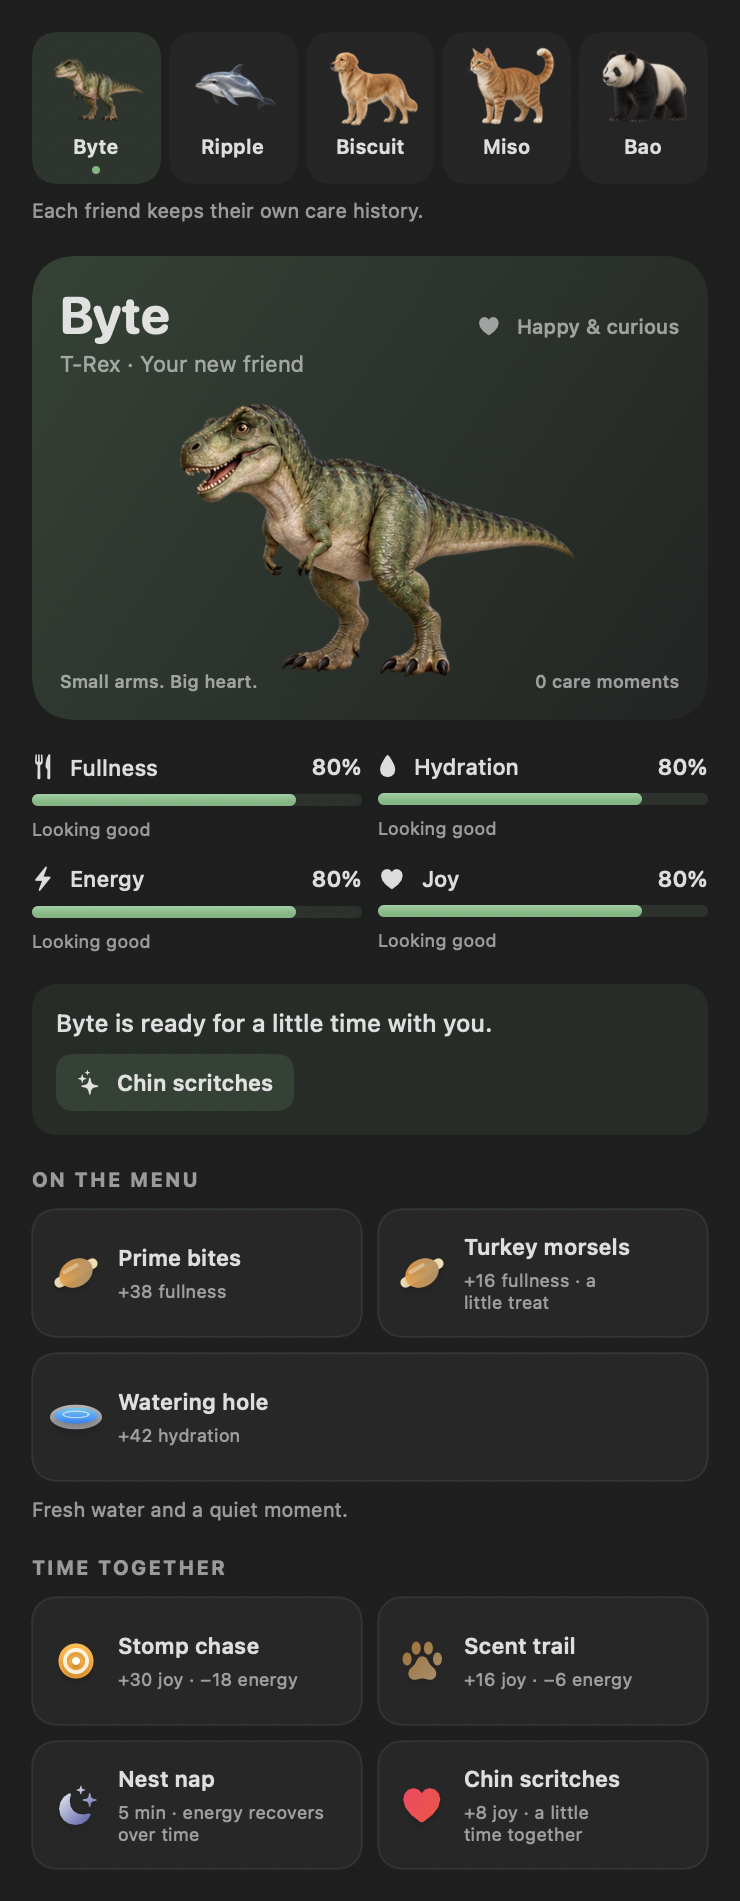
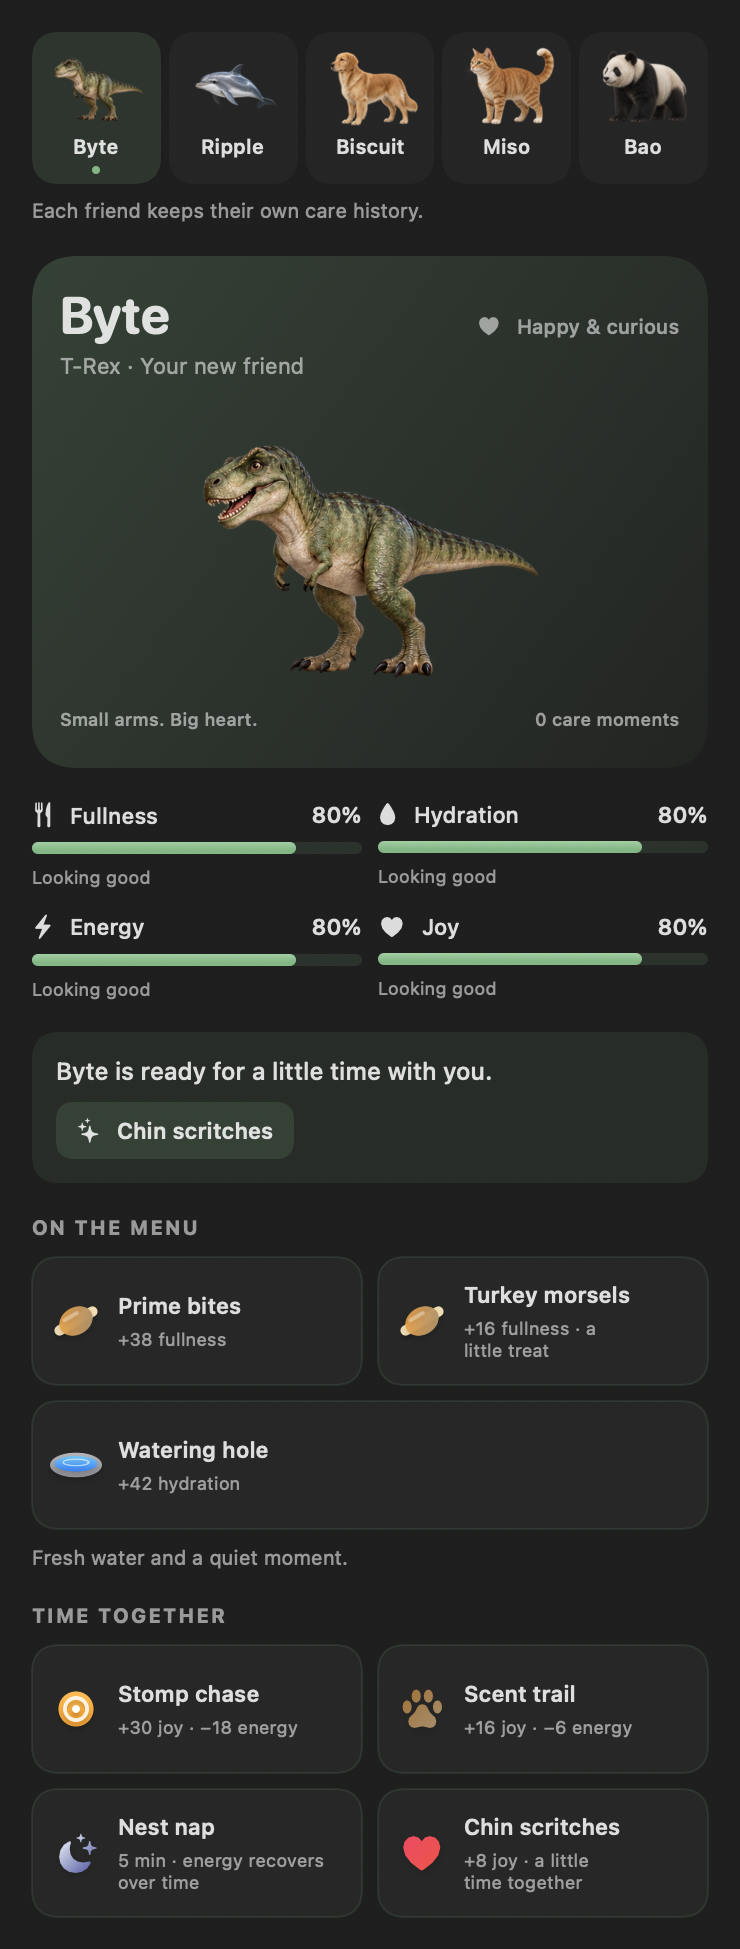
Refresh Nooklings screenshots and record native validation

diff --git a/README.md b/README.md
@@ -30,7 +30,7 @@ Click to chat. Hover to care. Drag to make yourself at home.
 
 **The pet works without an AI connection.** For replies, use an eligible ChatGPT plan through browser sign-in, or connect your own Anthropic API key. Credentials stay in macOS Keychain. Nooklings is built with SwiftUI and AppKit, with no third-party runtime dependencies.
 
-> **Source preview:** Nooklings is currently built from source. Bundles produced by this repository are unsigned. Automated macOS build, test, and bundle checks pass; real sign-in and UI behavior still need manual verification. See the [review and validation notes](docs/CODE_REVIEW.md#validation) for the current evidence.
+> **Source preview:** Nooklings is currently built from source. Bundles produced by this repository are unsigned. Automated macOS build, test, and bundle checks pass; real sign-in and UI behavior still need manual verification. See the [review and validation notes](docs/CODE_REVIEW.md#nooklings-update--october-18-2026) for the current evidence.
 
 <a id="features"></a>
 ## ✨ What you get
@@ -318,7 +318,7 @@ plutil -lint Nooklings.app/Contents/Info.plist
 
 The [macOS workflow](.github/workflows/ci.yml) runs the same sequence. The **68-test suite** passes on macOS 14 with Swift 5.10. Companion regression tests cover legacy-save migration, independent care histories, species-specific needs, elapsed naps, cancellation and duplicate-action protection, corrupted-save preservation, bundled artwork, and light/dark native render checks. Coverage includes request options, usage, persistence, archives, key migration, images, interrupted streams, cancellation, citations, and link handling, plus ChatGPT callback validation, identity signatures/claims, account separation, coordinated token rotation, sign-out during refresh, failed-save recovery, catalog retry, complete loopback sign-in and expired-code recovery, plan limits, and request contracts. Tests use temporary directories, stubbed HTTP streams, and in-memory credential stores; they do not make live provider calls or use your real Keychain.
 
-See the [passing native run](https://github.com/ronniekai999/byte/actions/runs/39100103808) and [readiness review](docs/CODE_REVIEW.md#readiness-review--october-10-2026) for the evidence and hands-on test steps. Live provider sign-in, real Keychain prompts, Login Items approval, and UI/audio behavior remain unverified.
+See the [passing native run](https://github.com/ronniekai999/byte/actions/runs/39100486937) and [readiness review](docs/CODE_REVIEW.md#readiness-review--october-10-2026) for the evidence and hands-on test steps. Live provider sign-in, real Keychain prompts, Login Items approval, and UI/audio behavior remain unverified.
 
 ### Source map
 

diff --git a/docs/CODE_REVIEW.md b/docs/CODE_REVIEW.md
@@ -1,4 +1,24 @@
-# Byte code review
+# Nooklings review and validation
+
+## Nooklings update — October 18, 2026
+
+The app is now Nooklings, with Byte the T-Rex, Ripple the dolphin, Biscuit the dog,
+Miso the cat, and Bao the panda. Each animal has its own care profile, save file,
+expressions, props, and play/rest animations. The original Byte save location,
+bundle identity, preference keys, and Keychain services remain in use for upgrades.
+
+The [native macOS check](https://github.com/ronniekai999/byte/actions/runs/39100486937)
+passes **68 tests**, release bundling, app metadata, icon generation, and verification
+of all five bundled artwork atlases. Tests cover elapsed care and rest, per-animal
+persistence, damaged saves, cancellation and duplicate completion, the 30 expression
+frames, and native light/dark care renders, alongside the existing AI/auth suite.
+The README uses portraits and dashboard pictures exported by the app's renderer.
+
+Live animation timing, sound, notch interactions, provider sign-in, real Keychain
+prompts, and Login Items still require a hands-on Mac pass. Repository renaming to
+`nooklings` is an administrative step; the current GitHub URL remains `byte`.
+
+Earlier review entries below refer to the app by its former name, Byte.
 
 ## Subscription connection update — October 10, 2026
 

diff --git a/ROADMAP.md b/ROADMAP.md
@@ -29,6 +29,7 @@ Updated: October 18, 2026
 
 ## Next
 
+- [ ] Rename the GitHub repository from `byte` to `nooklings` (requires repository settings access)
 - [x] ChatGPT plan sign-in for the local app, live account model catalog, and provider switching
 - [ ] Validate ChatGPT browser sign-in, Keychain, refresh, and streaming on macOS
 - [ ] Obtain Anthropic approval before adding Claude subscription sign-in
